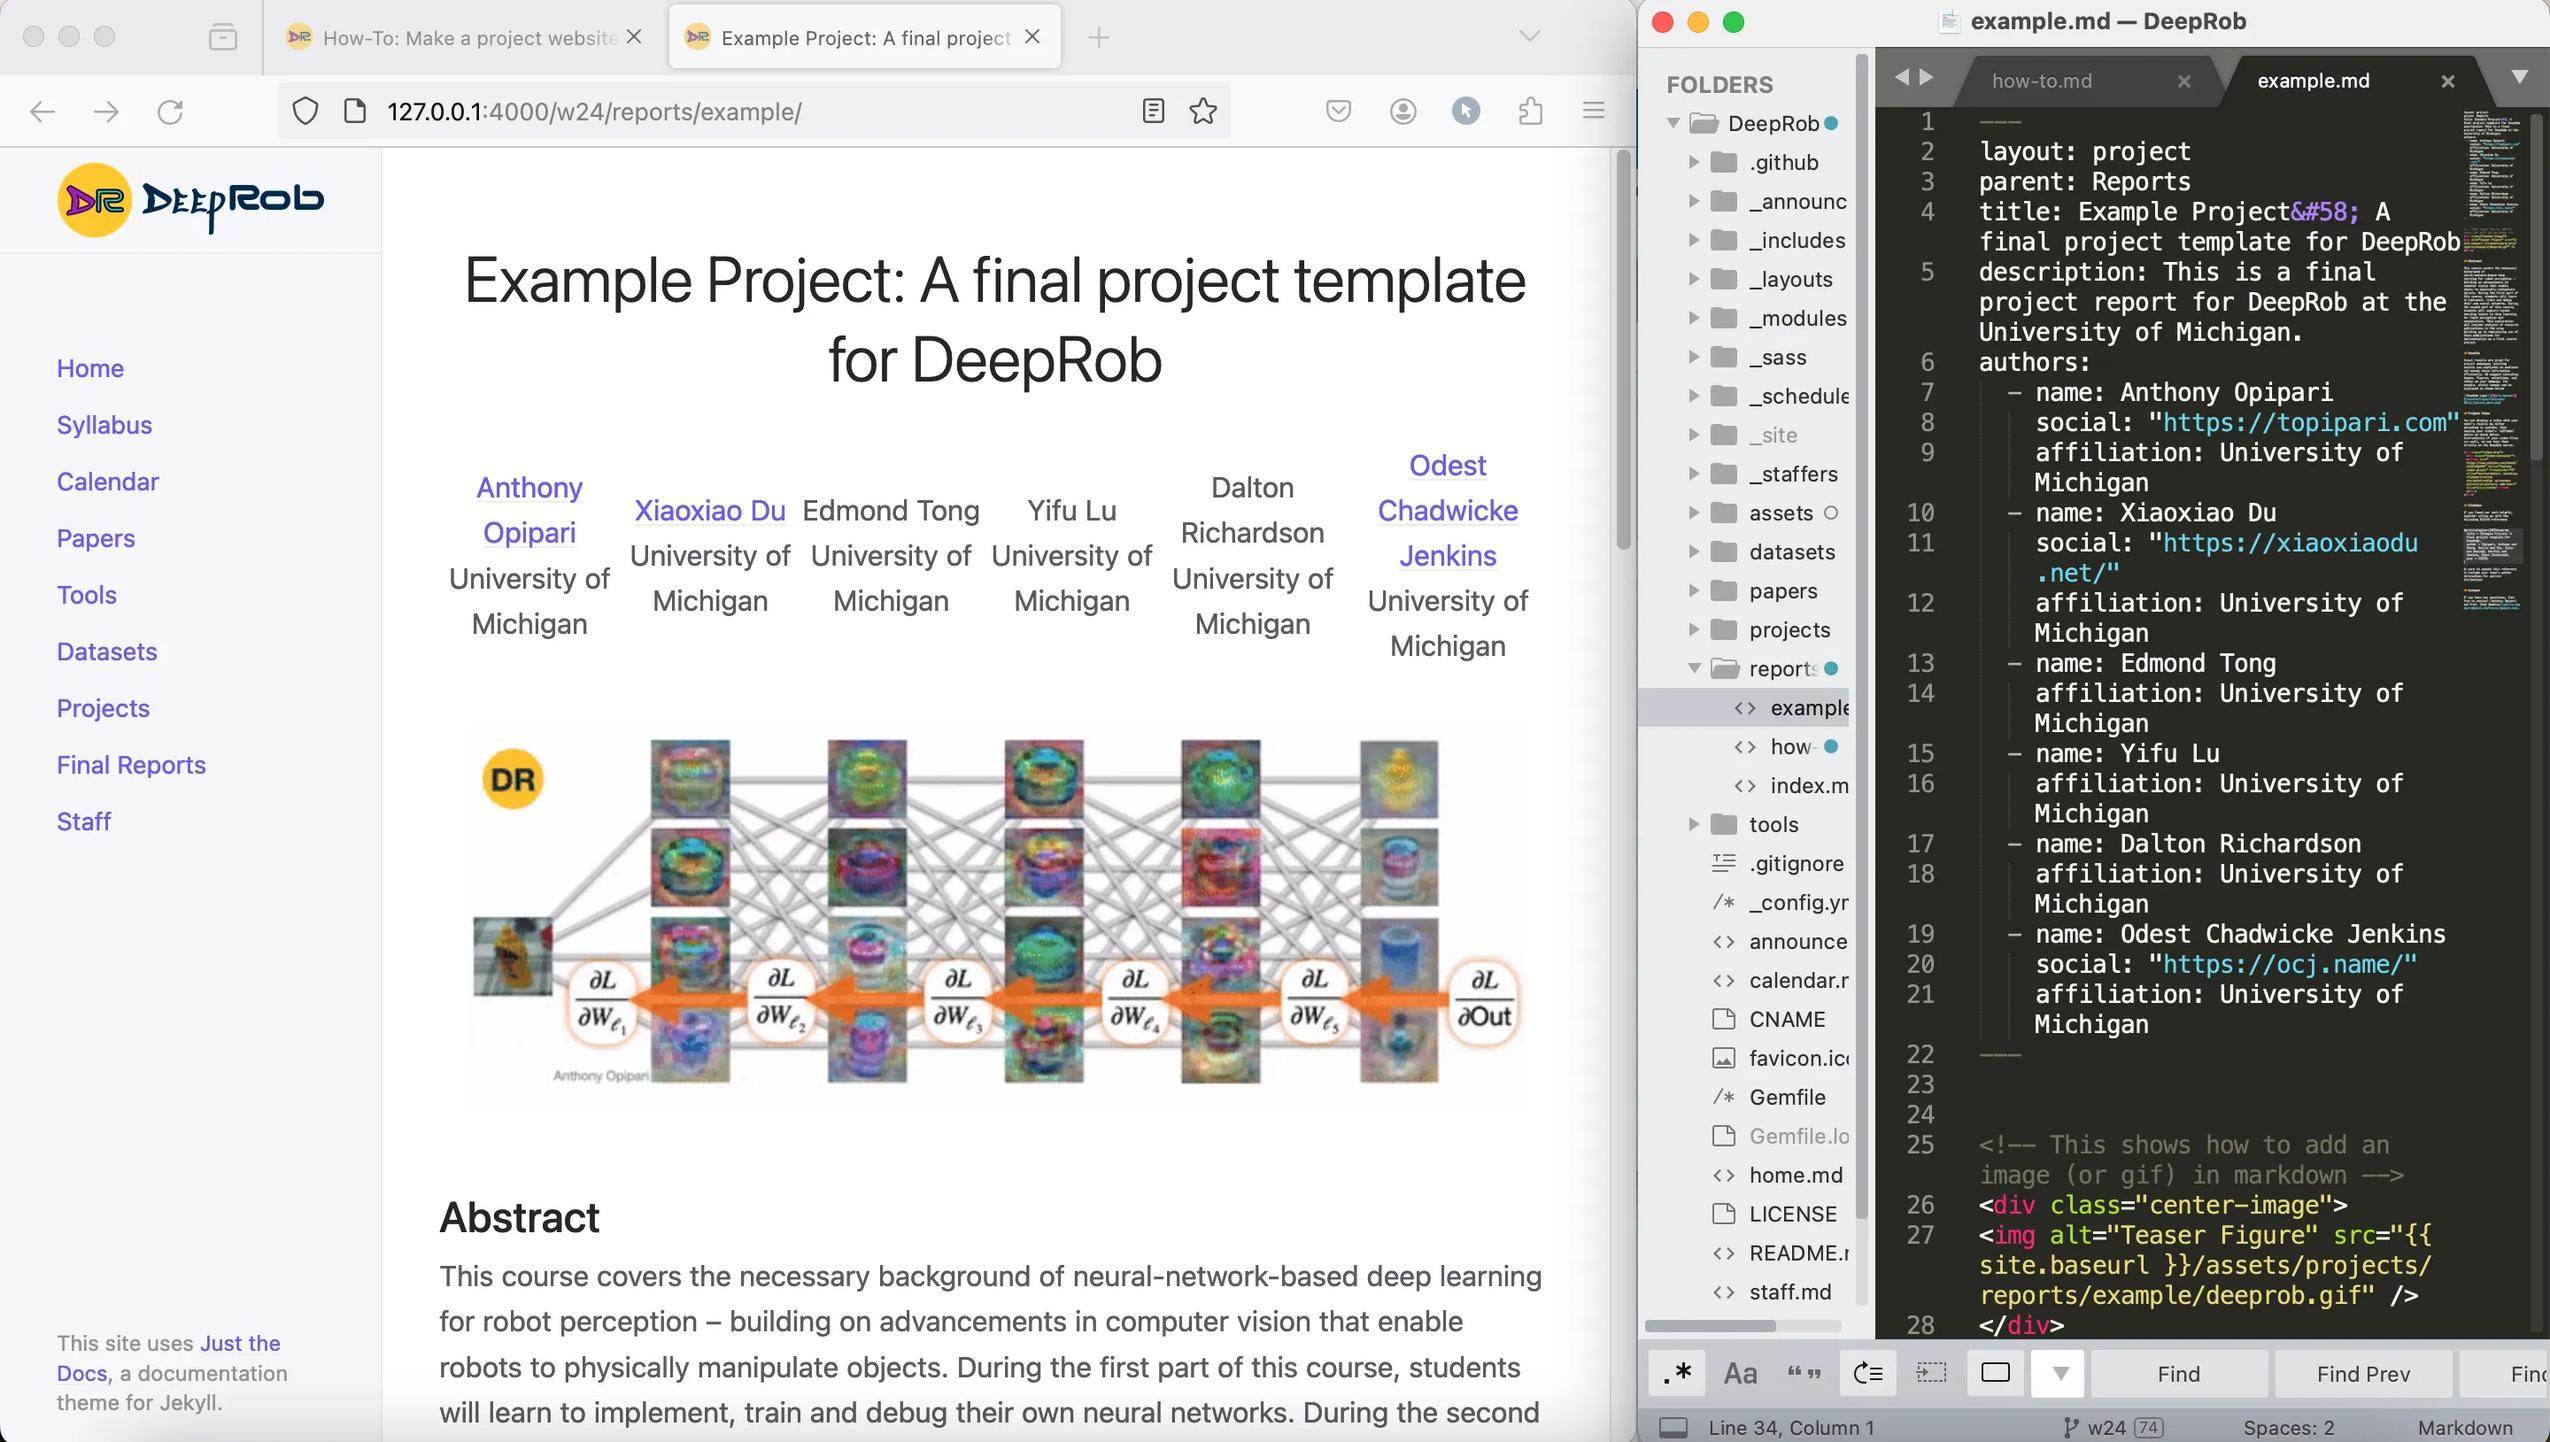
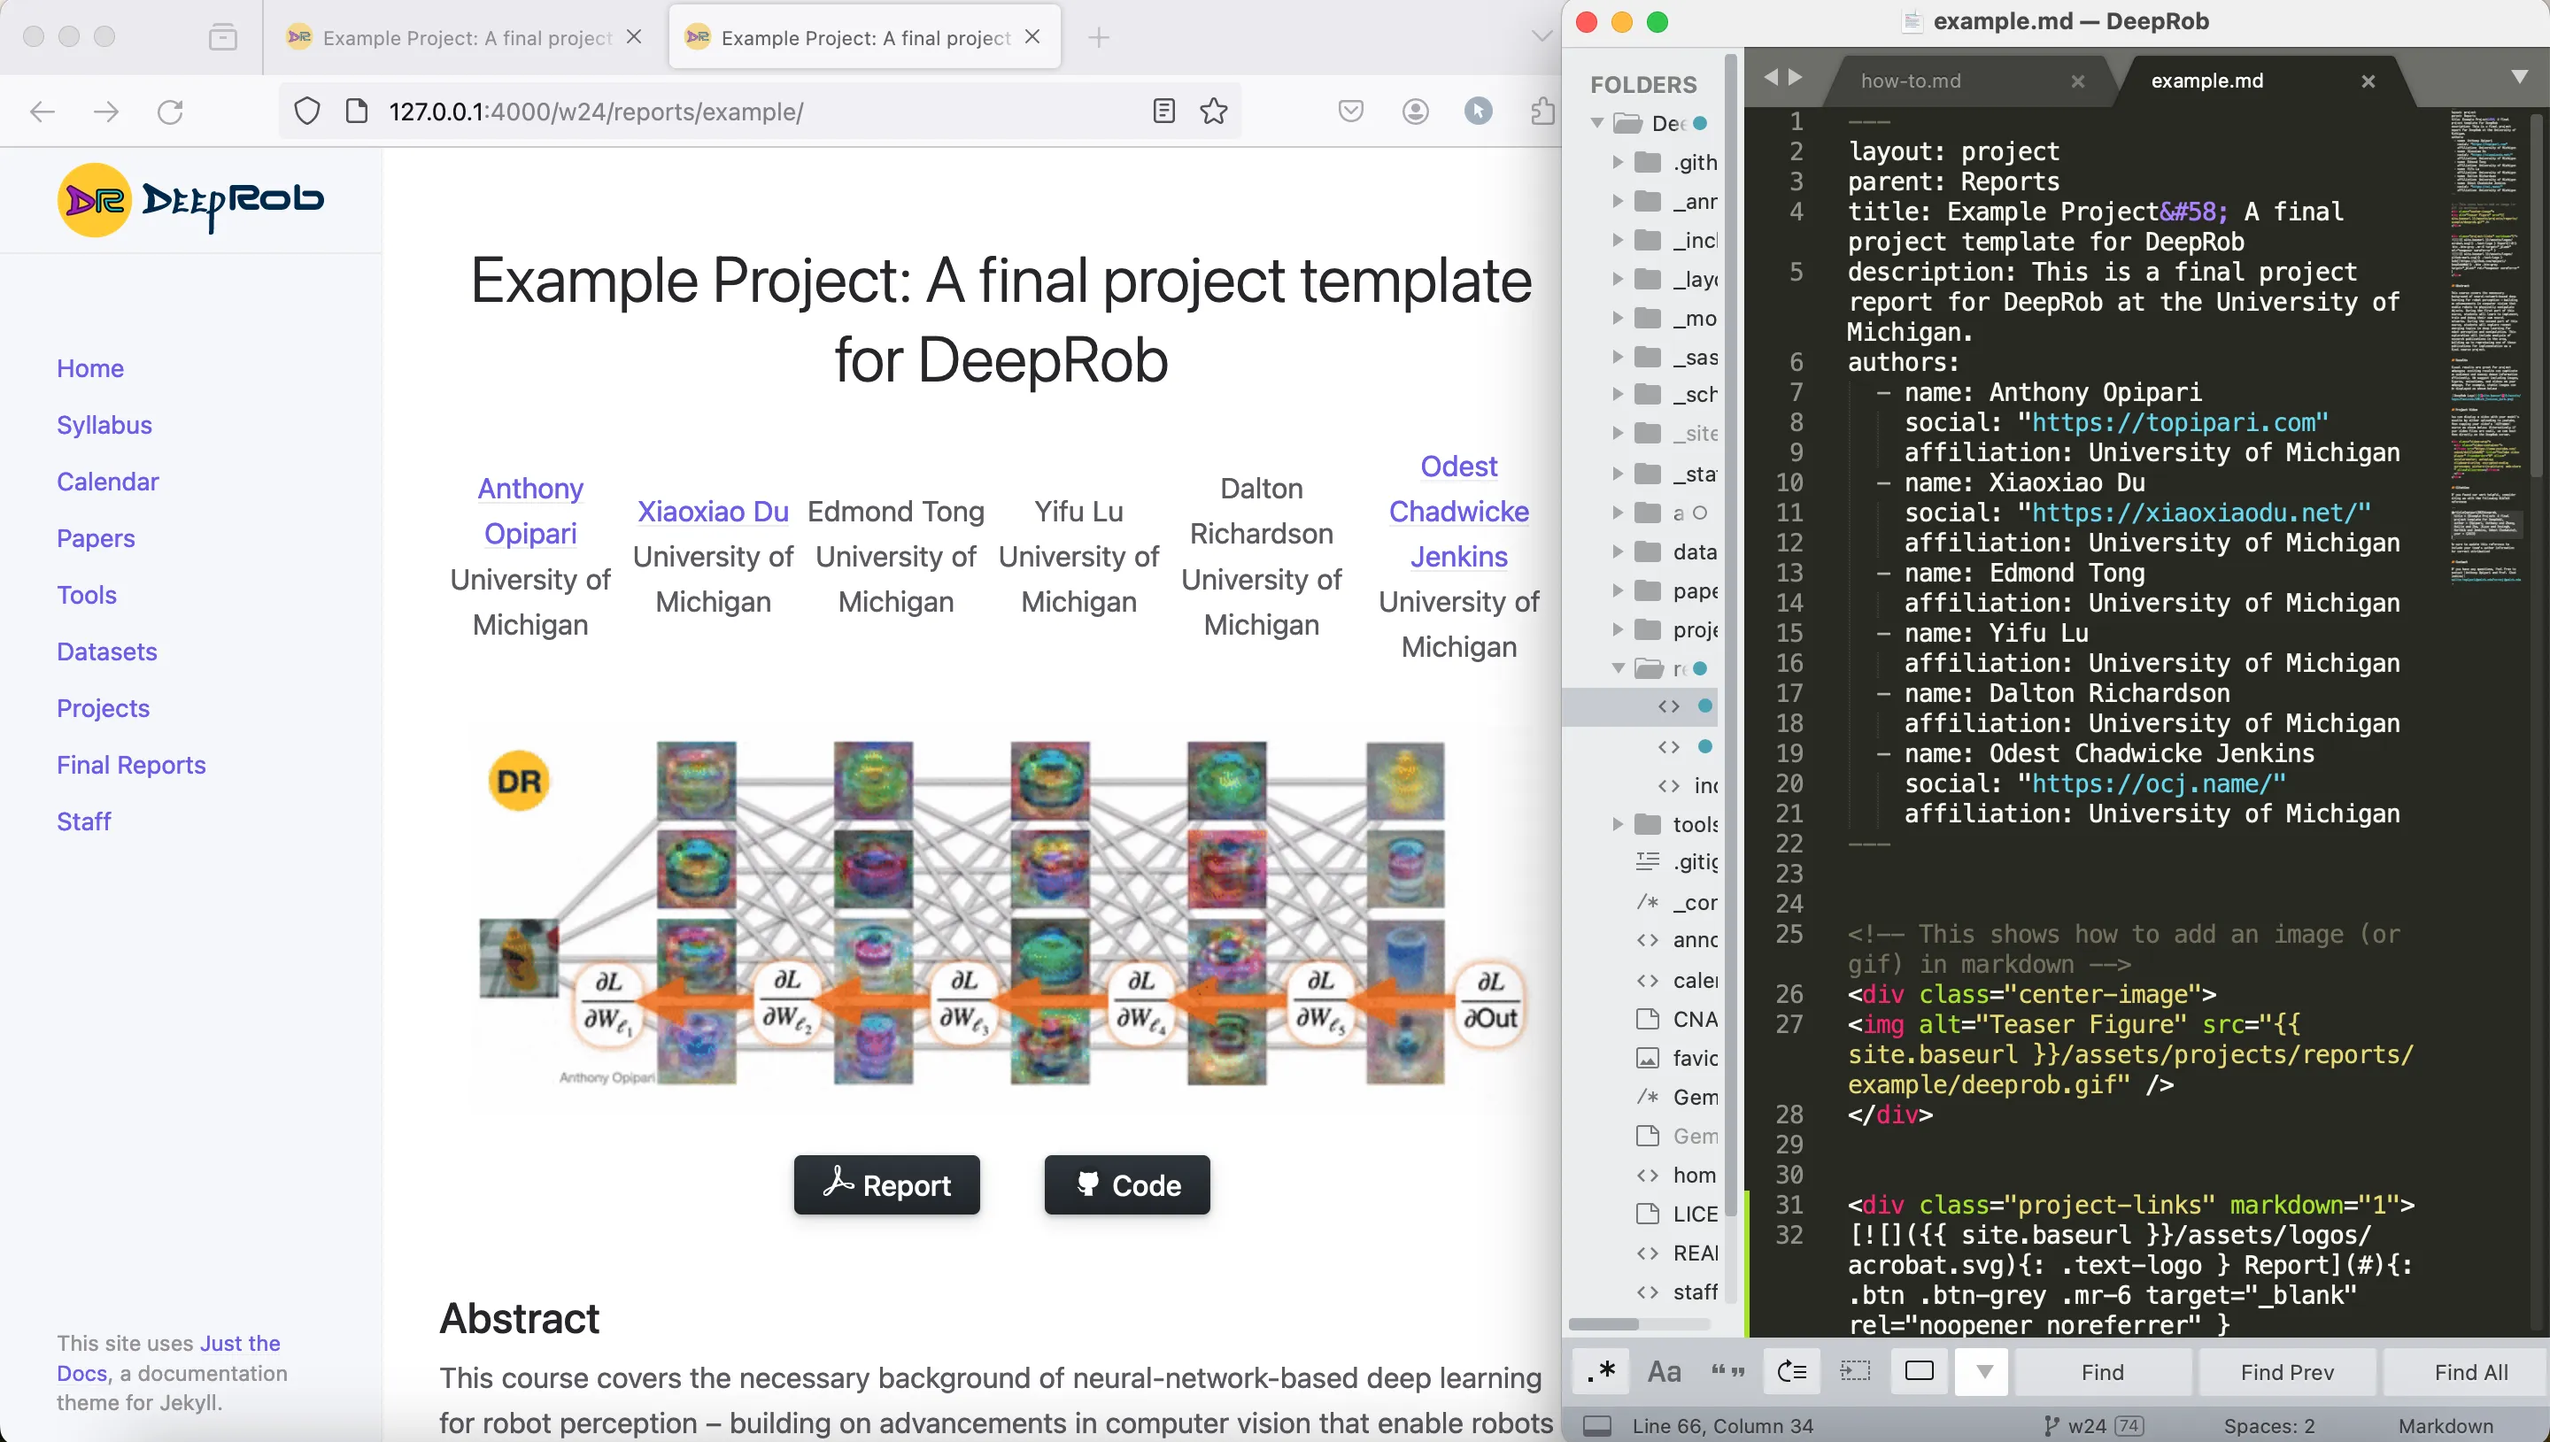
Updating how-to.

diff --git a/reports/how-to.md b/reports/how-to.md
@@ -18,6 +18,13 @@ authors:
 - [Prerequisites](#prerequisites)
 - [Building a Local Clone](#building-a-local-clone)
 - [Inspecting an Example Project Page](#inspecting-an-example-project-page)
+    - [Page Formatting](#page-formatting)
+    - [Page Title](#page-title)
+    - [Page Authors](#page-authors)
+    - [Project Images](#project-images)
+    - [Project Links](#project-links)
+    - [Project Videos](#project-videos)
+    - [Embedded Code](#embedded-code)
 - [Adding a New Project Page](#adding-a-new-project-page)
 - [Submitting a Pull Request to Publish your Page](#submitting-a-pull-request-to-publish-your-page)
 - [Contact for Questions](#contact-for-questions)
@@ -213,15 +220,95 @@ authors:
 
 Our provided project layout will format this list of authors into an equally-spaced row. Notice that the `social` attributes for each author are parsed into a proper weblink and that these attributes are optional: any authors that don't have an associated `social` attribute defined do not link to any external page.
 
+### Project Images
 
+Including a captivating image after the author list is a good strategy to summarize your project with a captivating visual element. The following code is used for placing the `deeprob.gif` file located in the `/w24/assets/projects/reports/example/` subdirectory within the example project page:
+
+```html
+<!-- This shows how to add an image (or gif) in markdown -->
+<div class="center-image">
+<img alt="Teaser Figure" src="{{ site.baseurl }}/assets/projects/reports/example/deeprob.gif" />
+</div>
+```
+
+Notice that a css-class named `center-image` is applied as a parent element of our `img` element. The details can be ignored, but we provide this class to help you with centering images.
+
+If we don't care about cenetering, we can more easily include images using the following command:
+
+```markdown
+![Teaser Figure]({{ site.baseurl }}/assets/projects/reports/example/deeprob.gif)
+```
+
+
+### Project Links
+
+We provide default styling for any project-specific links you would like to include. For example, to include links to your report or your codebase, you can include the following code block below your front matter block:
+
+```html
+<div class="project-links" markdown="1">
+[![]({{ site.baseurl }}/assets/logos/acrobat.svg){: .text-logo } Report](<PATH_TO_PDF>){: .btn .btn-grey .mr-6 target="_blank" rel="noopener noreferrer" }
+[![]({{ site.baseurl }}/assets/logos/github-mark.svg){: .text-logo } Code](<PATH_TO_CODE>){: .btn .btn-grey target="_blank" rel="noopener noreferrer" }
+</div>
+```
+
+where `<PATH_TO_PDF>` and `<PATH_TO_CODE>` are replaced with actual web links. This block of code results in the following buttons:
+
+<div inert>
+<div class="project-links" markdown="1">
+[![]({{ site.baseurl }}/assets/logos/acrobat.svg){: .text-logo } Report](#){: .btn .btn-grey .mr-6 }
+[![]({{ site.baseurl }}/assets/logos/github-mark.svg){: .text-logo } Code](#){: .btn .btn-grey }
+</div>
+</div>
+
+
+### Project Videos
+
+If you have any video results, those can be displayed either by using HTML video tags or by hosting on a video hosting service like YouTube. YouTube provides iframe HTML code that can be directly embedded into webpages as follows:
+
+```html
+<div class="video-wrap">
+  <div class="video-container">
+  <iframe src="https://www.youtube.com/embed/dx1G7y6mhMQ" title="YouTube video player" frameborder="0" allow="accelerometer; autoplay; clipboard-write; encrypted-media; gyroscope; picture-in-picture; web-share" allowfullscreen></iframe>
+  </div>
+</div>
+```
+
+Placing the above code into your markdown file will result in the following embeded iframe:
+
+<div class="video-wrap">
+  <div class="video-container">
+  <iframe src="https://www.youtube.com/embed/dx1G7y6mhMQ" title="YouTube video player" frameborder="0" allow="accelerometer; autoplay; clipboard-write; encrypted-media; gyroscope; picture-in-picture; web-share" allowfullscreen></iframe>
+  </div>
+</div>
+
+
+### Embedded Code
+
+If you'd like to embed code, markdown provides [syntax highlighting](https://docs.github.com/en/get-started/writing-on-github/working-with-advanced-formatting/creating-and-highlighting-code-blocks){: target="_blank" rel="noopener noreferrer"}. Simply wrap your code in backticks (\`) for in-line code or for code blocks, wrap your code in backtick-triplets.
+
+````
+```
+# code goes here 
+```
+````
+
+### Other Features!
+
+Feel free to experiment with embedding content into your markdown webpage. For example, [plotly figures](https://plotly.com/chart-studio-help/embed-graphs-in-websites/){: target="_blank" rel="noopener noreferrer"} can be embedded into HTML--even [3D figures](https://plotly.com/python/3d-charts/){: target="_blank" rel="noopener noreferrer"}!
 
 ---
 
 ## Adding a New Project Page
 
-{: .highlight }
-TODO
+Now that we've [inspected an example project page](#inspecting-an-example-project-page), we're ready to design our own! 
 
+**Here are the required steps:**
+
+1. Create a new markdown file (`.md`) and place it within the `reports/` directory
+2. Fill in the markdown file's front matter block as described [above](#page-formatting)
+3. Create a new asset directory with the same name as your markdown file and place the directory within `assets/projects/reports/`
+4. Place any image, video, PDF, or other file assets you would like to host into your new asset directory
+5. Add content to your webpage
 
 ---
 

diff --git a/reports/example.md b/reports/example.md
@@ -28,6 +28,12 @@ authors:
 </div>
 
 
+<div class="project-links" markdown="1">
+[![]({{ site.baseurl }}/assets/logos/acrobat.svg){: .text-logo } Report](#){: .btn .btn-grey .mr-6 }
+[![]({{ site.baseurl }}/assets/logos/github-mark.svg){: .text-logo } Code](https://github.com/opipari/DeepRobWeb/blob/w24/reports/example.md){: .btn .btn-grey target="_blank" rel="noopener noreferrer" }
+</div>
+
+
 ## Abstract
 
 This course covers the necessary background of neural-network-based deep learning for robot perception – building on advancements in computer vision that enable robots to physically manipulate objects. During the first part of this course, students will learn to implement, train and debug their own neural networks. During the second part of this course, students will explore recent emerging topics in deep learning for robot perception and manipulation. This exploration will include analysis of research publications in the area, building up to reproducing one of these publications for implementation as a final course project.
